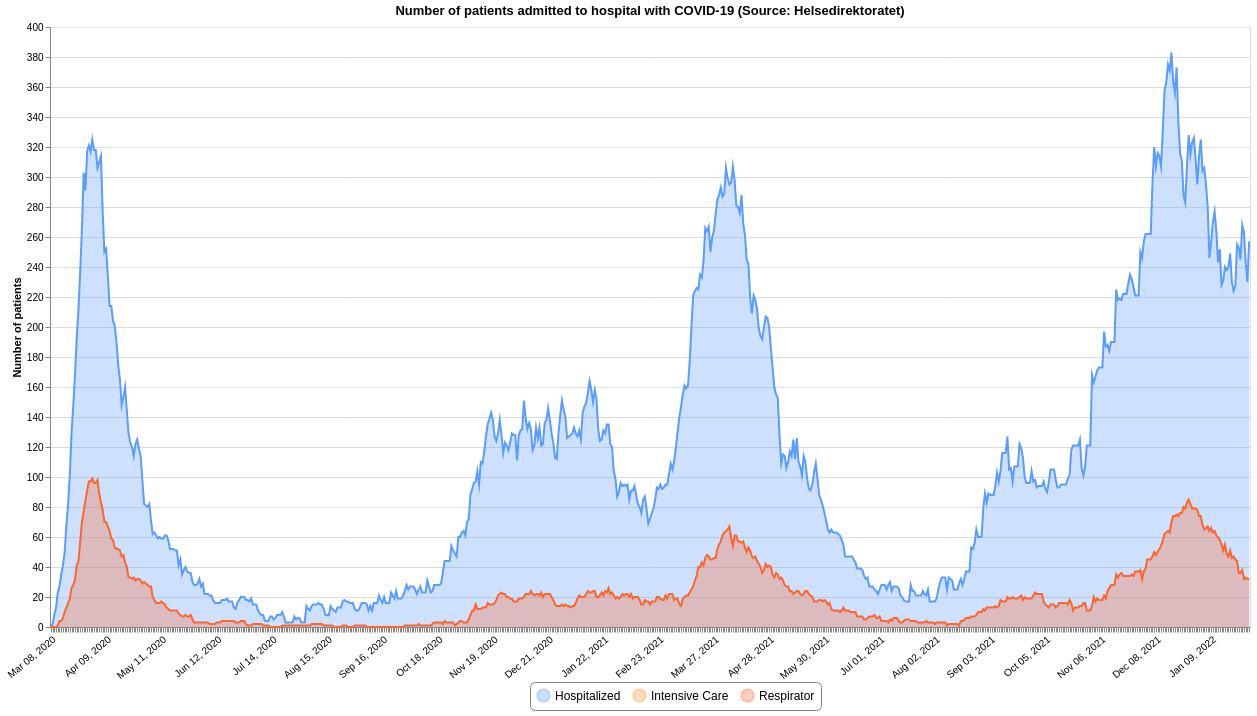
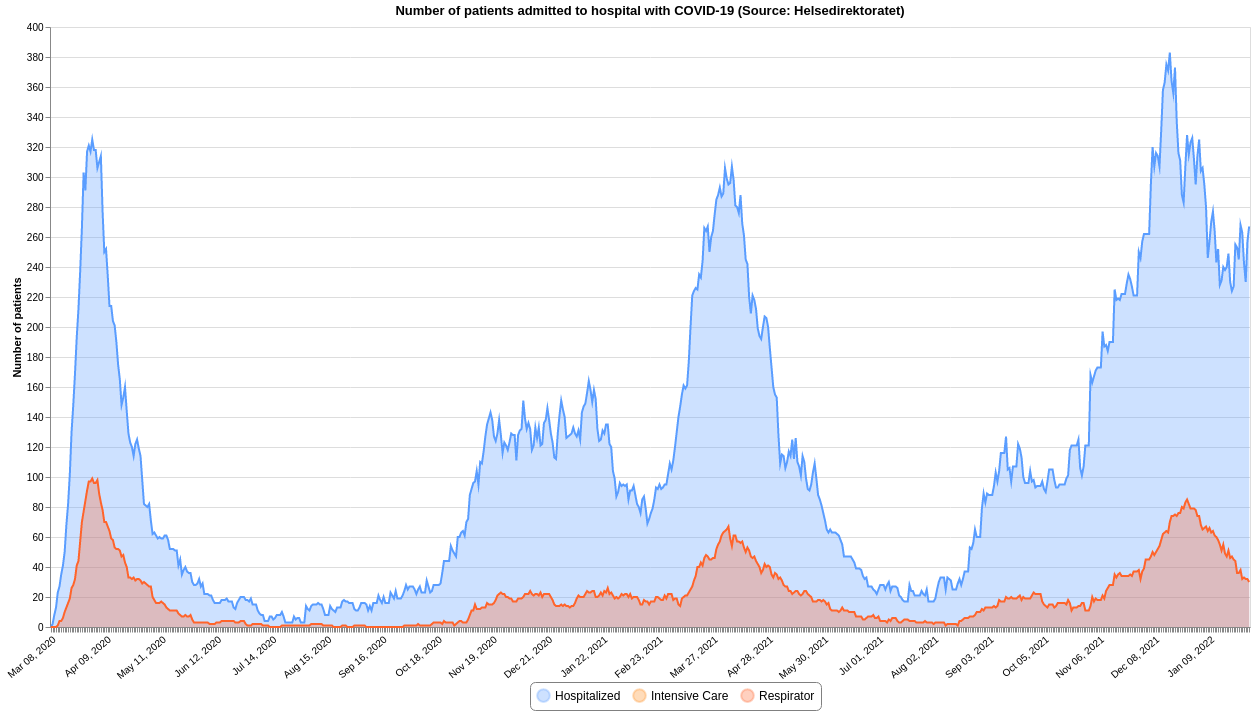
Updated 2022-02-01 13:01

diff --git a/README.md b/README.md
@@ -12,8 +12,8 @@ This repository contains datasets of daily time-series data related to COVID-19 
 | :--- | :--- | :--- | :--- | :--- |
 |[Confirmed](#confirmedcsv)|FHI / MSIS|2022-02-01 00:20:46+01:00|[<center>csv</center>](https://raw.githubusercontent.com/frefrik/covid19norge-data/main/data/confirmed.csv)|[<center>preview</center>](data/confirmed.csv)|
 |[Dead](#deadcsv)|FHI|2022-01-31 13:20:54+01:00|[<center>csv</center>](https://raw.githubusercontent.com/frefrik/covid19norge-data/main/data/dead.csv)|[<center>preview</center>](data/dead.csv)|
-|[Hospitalized](#hospitalizedcsv)|Helsedirektoratet|2022-01-31 12:50:54+01:00|[<center>csv</center>](https://raw.githubusercontent.com/frefrik/covid19norge-data/main/data/hospitalized.csv)|[<center>preview</center>](data/hospitalized.csv)|
-|[Tested](#testedcsv)|FHI|2022-01-31 13:00:40+01:00|[<center>csv</center>](https://raw.githubusercontent.com/frefrik/covid19norge-data/main/data/tested.csv)|[<center>preview</center>](data/tested.csv)|
+|[Hospitalized](#hospitalizedcsv)|Helsedirektoratet|2022-02-01 13:00:55+01:00|[<center>csv</center>](https://raw.githubusercontent.com/frefrik/covid19norge-data/main/data/hospitalized.csv)|[<center>preview</center>](data/hospitalized.csv)|
+|[Tested](#testedcsv)|FHI|2022-02-01 13:00:53+01:00|[<center>csv</center>](https://raw.githubusercontent.com/frefrik/covid19norge-data/main/data/tested.csv)|[<center>preview</center>](data/tested.csv)|
 |[Tested Lab](#tested_labcsv)|FHI|2022-01-31 13:20:49+01:00|[<center>csv</center>](https://raw.githubusercontent.com/frefrik/covid19norge-data/main/data/tested_lab.csv)|[<center>preview</center>](data/tested_lab.csv)|
 |[Transport](#transportcsv)|FHI|2021-09-24 23:10:46+02:00|[<center>csv</center>](https://raw.githubusercontent.com/frefrik/covid19norge-data/main/data/transport.csv)|[<center>preview</center>](data/transport.csv)|
 |[Vaccine Doses](#vaccine_dosescsv)|FHI|2022-01-31 13:20:54+01:00|[<center>csv</center>](https://raw.githubusercontent.com/frefrik/covid19norge-data/main/data/vaccine_doses.csv)|[<center>preview</center>](data/vaccine_doses.csv)|
